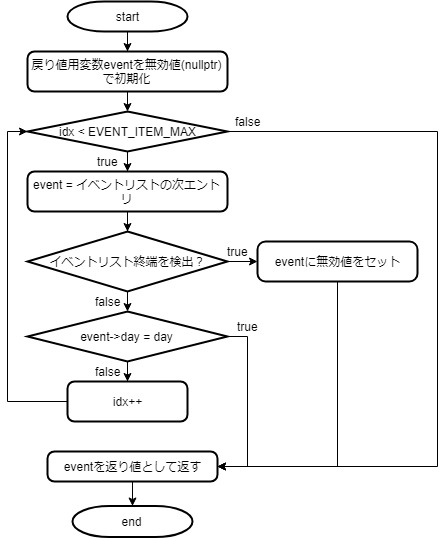
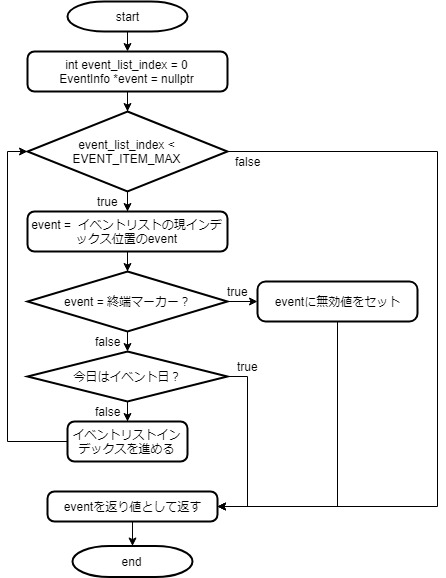
フローチャート追加及びソースコードリファクタリング

diff --git a/lecture/src/cpp/SimpleCalendar/SimpleCalendar/calendar_func.cpp b/lecture/src/cpp/SimpleCalendar/SimpleCalendar/calendar_func.cpp
@@ -69,12 +69,13 @@ step_today_info( TodayInfo *today, int eom )
 } // step_today_info()
 
 static EventInfo*
-check_event_day( const TodayInfo *today )
+search_event_list( const TodayInfo *today )
 {
+    int event_list_index = 0;
     EventInfo *event = nullptr;
-    for( int idx = 0; idx < EVENT_ITEM_MAX; idx++ )
+    while( event_list_index < EVENT_ITEM_MAX )
     {
-        event = &( event_info_2019[ today->month - 1 ][ idx ] );
+        event = &( event_info_2019[ today->month - 1 ][ event_list_index ] );
         // イベント終端判定( 構造体メンバ全てが無効値のものをリスト終端として扱う )
         if( ( event->day == EVENT_END ) &&
             ( event->event_name == nullptr ) &&
@@ -87,9 +88,10 @@ check_event_day( const TodayInfo *today )
         {
             break; // 現在のイベント情報を上位へ返す
         }
+        event_list_index++; // イベントリストのインデックスを進める
     }
     return event;
-} // check_event_day()
+} // search_event_list()
 
 static bool
 check_holiday( const TodayInfo *today )
@@ -102,14 +104,15 @@ check_holiday( const TodayInfo *today )
     {
         judgement = true;
     }
-   
-    // 祝日判定
-    EventInfo *event = check_event_day( today );
-    if( event != nullptr ) // 該当イベントが見つかった？
+    else // 祝日判定
     {
-        if( event->is_holiday ) // 該当日は祝日？
+        EventInfo *event = search_event_list( today );
+        if( event != nullptr ) // 該当イベントが見つかった？
         {
-            judgement = true;
+            if( event->is_holiday ) // 該当日は祝日？
+            {
+                judgement = true;
+            }
         }
     }
     return judgement;
@@ -119,13 +122,13 @@ static void
 print_no_overtime( const TodayInfo *start, int eom )
 {
     TodayInfo today = *start;
-    std::set< int > results_days;
+    std::set< int > result_days;
 
     int bef_bussiness_day = today.day;
     int cont_holidays = 0; // 連続休暇数
     int last_friday = NOT_FOUND;
     printf( "★定時退社日★\n" );
-    for( int loop_count = 0; loop_count < eom; loop_count++ )
+    while( today.day < eom )
     {
         if( check_holiday( &today ) ) // 本日は休日？
         {
@@ -137,13 +140,13 @@ print_no_overtime( const TodayInfo *start, int eom )
             // 3連休判定(連休終了時に直前の出勤日を出力する)
             if( cont_holidays >= 3 ) // 3連休以上だった？
             {
-                results_days.insert( bef_bussiness_day );
+                result_days.insert( bef_bussiness_day );
             }
             cont_holidays = 0; // 連続休日数カウントをクリア
             // 給料日の定時退社判定
             if( today.day == SALARY_DAY )
             {
-                results_days.insert( today.day );
+                result_days.insert( today.day );
             }
             // 後のプレミアムフライデー判定用に最終金曜日を保存
             if( today.weekday == eFri )
@@ -155,13 +158,13 @@ print_no_overtime( const TodayInfo *start, int eom )
         step_today_info( &today, eom ); // 1日進める
     }
 
-    // プレミアムフライデー出力
+    // プレミアムフライデー判定
     if( last_friday != NOT_FOUND )
     {
-        results_days.insert( last_friday );
+        result_days.insert( last_friday );
     }
 
-    for( auto day : results_days )
+    for( auto day : result_days )
     {
         printf( "%2d日\n", day );
     }
@@ -170,11 +173,10 @@ print_no_overtime( const TodayInfo *start, int eom )
 static void
 print_event_alert( const TodayInfo *start, int eom )
 {
-    EventInfo *event;
-    TodayInfo today = *start;
-    for( int loop_count = 0; loop_count < eom; loop_count++ )
+    TodayInfo today = *start; // 引数をローカル変数にコピー
+    while( today.day < eom )
     {
-        event = check_event_day( &today );
+        EventInfo *event = search_event_list( &today );
         if( event != nullptr ) // 該当イベントが見つかった？
         {
             printf( "%2d/%2dは%sです\n", today.month, today.day, event->event_name );

diff --git a/lecture/prog_event_alert.md b/lecture/prog_event_alert.md
@@ -113,27 +113,29 @@ event_info_2019[][ EVENT_ITEM_MAX ] = {
 
 ```cpp
 static EventInfo*
-check_event_day( const TodayInfo *today )
+search_event_list( const TodayInfo *today )
 {
+    int event_list_index = 0;
     EventInfo *event = nullptr;
-    for( int idx = 0; idx < EVENT_ITEM_MAX; idx++ )
+    while( event_list_index < EVENT_ITEM_MAX )
     {
-        event = &( event_info_2019[ today->month - 1 ][ idx ] );
+        event = &( event_info_2019[ today->month - 1 ][ event_list_index ] );
         // イベント終端判定( 構造体メンバ全てが無効値のものをリスト終端として扱う )
         if( ( event->day == EVENT_END ) &&
             ( event->event_name == nullptr ) &&
             ( event->is_holiday == false ) )
         {
-            event = nullptr; //  該当エントリなしを示す無効ポインタを返す
+            event = nullptr; // 該当エントリなしを示す無効ポインタを返す
             break;
         }
         else if( event->day == today->day ) // イベントリストに指定日あり
         {
             break; // 現在のイベント情報を上位へ返す
         }
+        event_list_index++; // イベントリストのインデックスを進める
     }
     return event;
-} // check_event_day()
+} // search_event_list()
 ```
 
 フローチャートについても紹介しておきます
@@ -156,38 +158,42 @@ check_holiday( const TodayInfo *today )
     bool judgement = false;
 
     // 土日判定
-    if( ( today->weekday == eSat ) &&
+    if( ( today->weekday == eSat ) ||
         ( today->weekday == eSun ) )
     {
         judgement = true;
     }
-   
-    // 祝日判定
-    EventInfo *event = check_event_day( today );
-    if( event != nullptr ) // 該当イベントが見つかった？
+    else // 祝日判定
     {
-        if( event->is_holiday ) // 該当日は祝日？
+        EventInfo *event = search_event_list( today );
+        if( event != nullptr ) // 該当イベントが見つかった？
         {
-            judgement = true;
+            if( event->is_holiday ) // 該当日は祝日？
+            {
+                judgement = true;
+            }
         }
     }
     return judgement;
 } // check_holiday()
 ```
 
+フローチャートはこちらです
+
+![check_holiday](./picture/check_holiday.flow.jpg)
+
 ### イベント日の出力
 
-指定月を1日から順番にcheck_event_day()へ渡し、イベントリストに該当エントリが無いかを探します。「該当イベントがある＝イベント日」なので、イベントの詳細情報を表示します。**check_event_day()の返り値が無効データ( nullptr )でなければ、イベントリストに該当イベントがある**と判定しているのがポイントです。
+指定月を1日から順番にcheck_event_day()へ渡し、イベントリストに該当エントリが無いかを探します。「該当イベントがある＝イベント日」なので、イベントの詳細情報を表示します。**search_event_list()の返り値が無効データ( nullptr )でなければ、イベントリストに該当イベントがある**と判定しているのがポイントです。
 
 ```cpp
 static void
 print_event_alert( const TodayInfo *start, int eom )
 {
-    EventInfo *event;
     TodayInfo today = *start;
-    for( int loop_count = 0; loop_count < eom; loop_count++ )
+    while( today.day < eom )
     {
-        event = check_event_day( &today );
+        EventInfo *event = search_event_list( &today );
         if( event != nullptr ) // 該当イベントが見つかった？
         {
             printf( "%2d/%2dは%sです\n", today.month, today.day, event->event_name );
@@ -223,7 +229,7 @@ print_no_overtime( const TodayInfo *start, int eom )
     int cont_holidays = 0; // 連続休暇数
     int last_friday = NOT_FOUND;
     printf( "★定時退社日★\n" );
-    for( int loop_count = 0; loop_count < eom; loop_count++ )
+    while( today.day < eom )
     {
         if( check_holiday( &today ) ) // 本日は休日？
         {
@@ -259,6 +265,10 @@ print_no_overtime( const TodayInfo *start, int eom )
     }
 } // print_no_overtime()
 ```
+
+フローチャートもかなりのボリュームになりました
+
+![](C:\work\src\tool_dev\repos\lecture\picture\print_no_overtime.flow.jpg)
 
 これで予定していた機能の全てが実装出来ました
 
